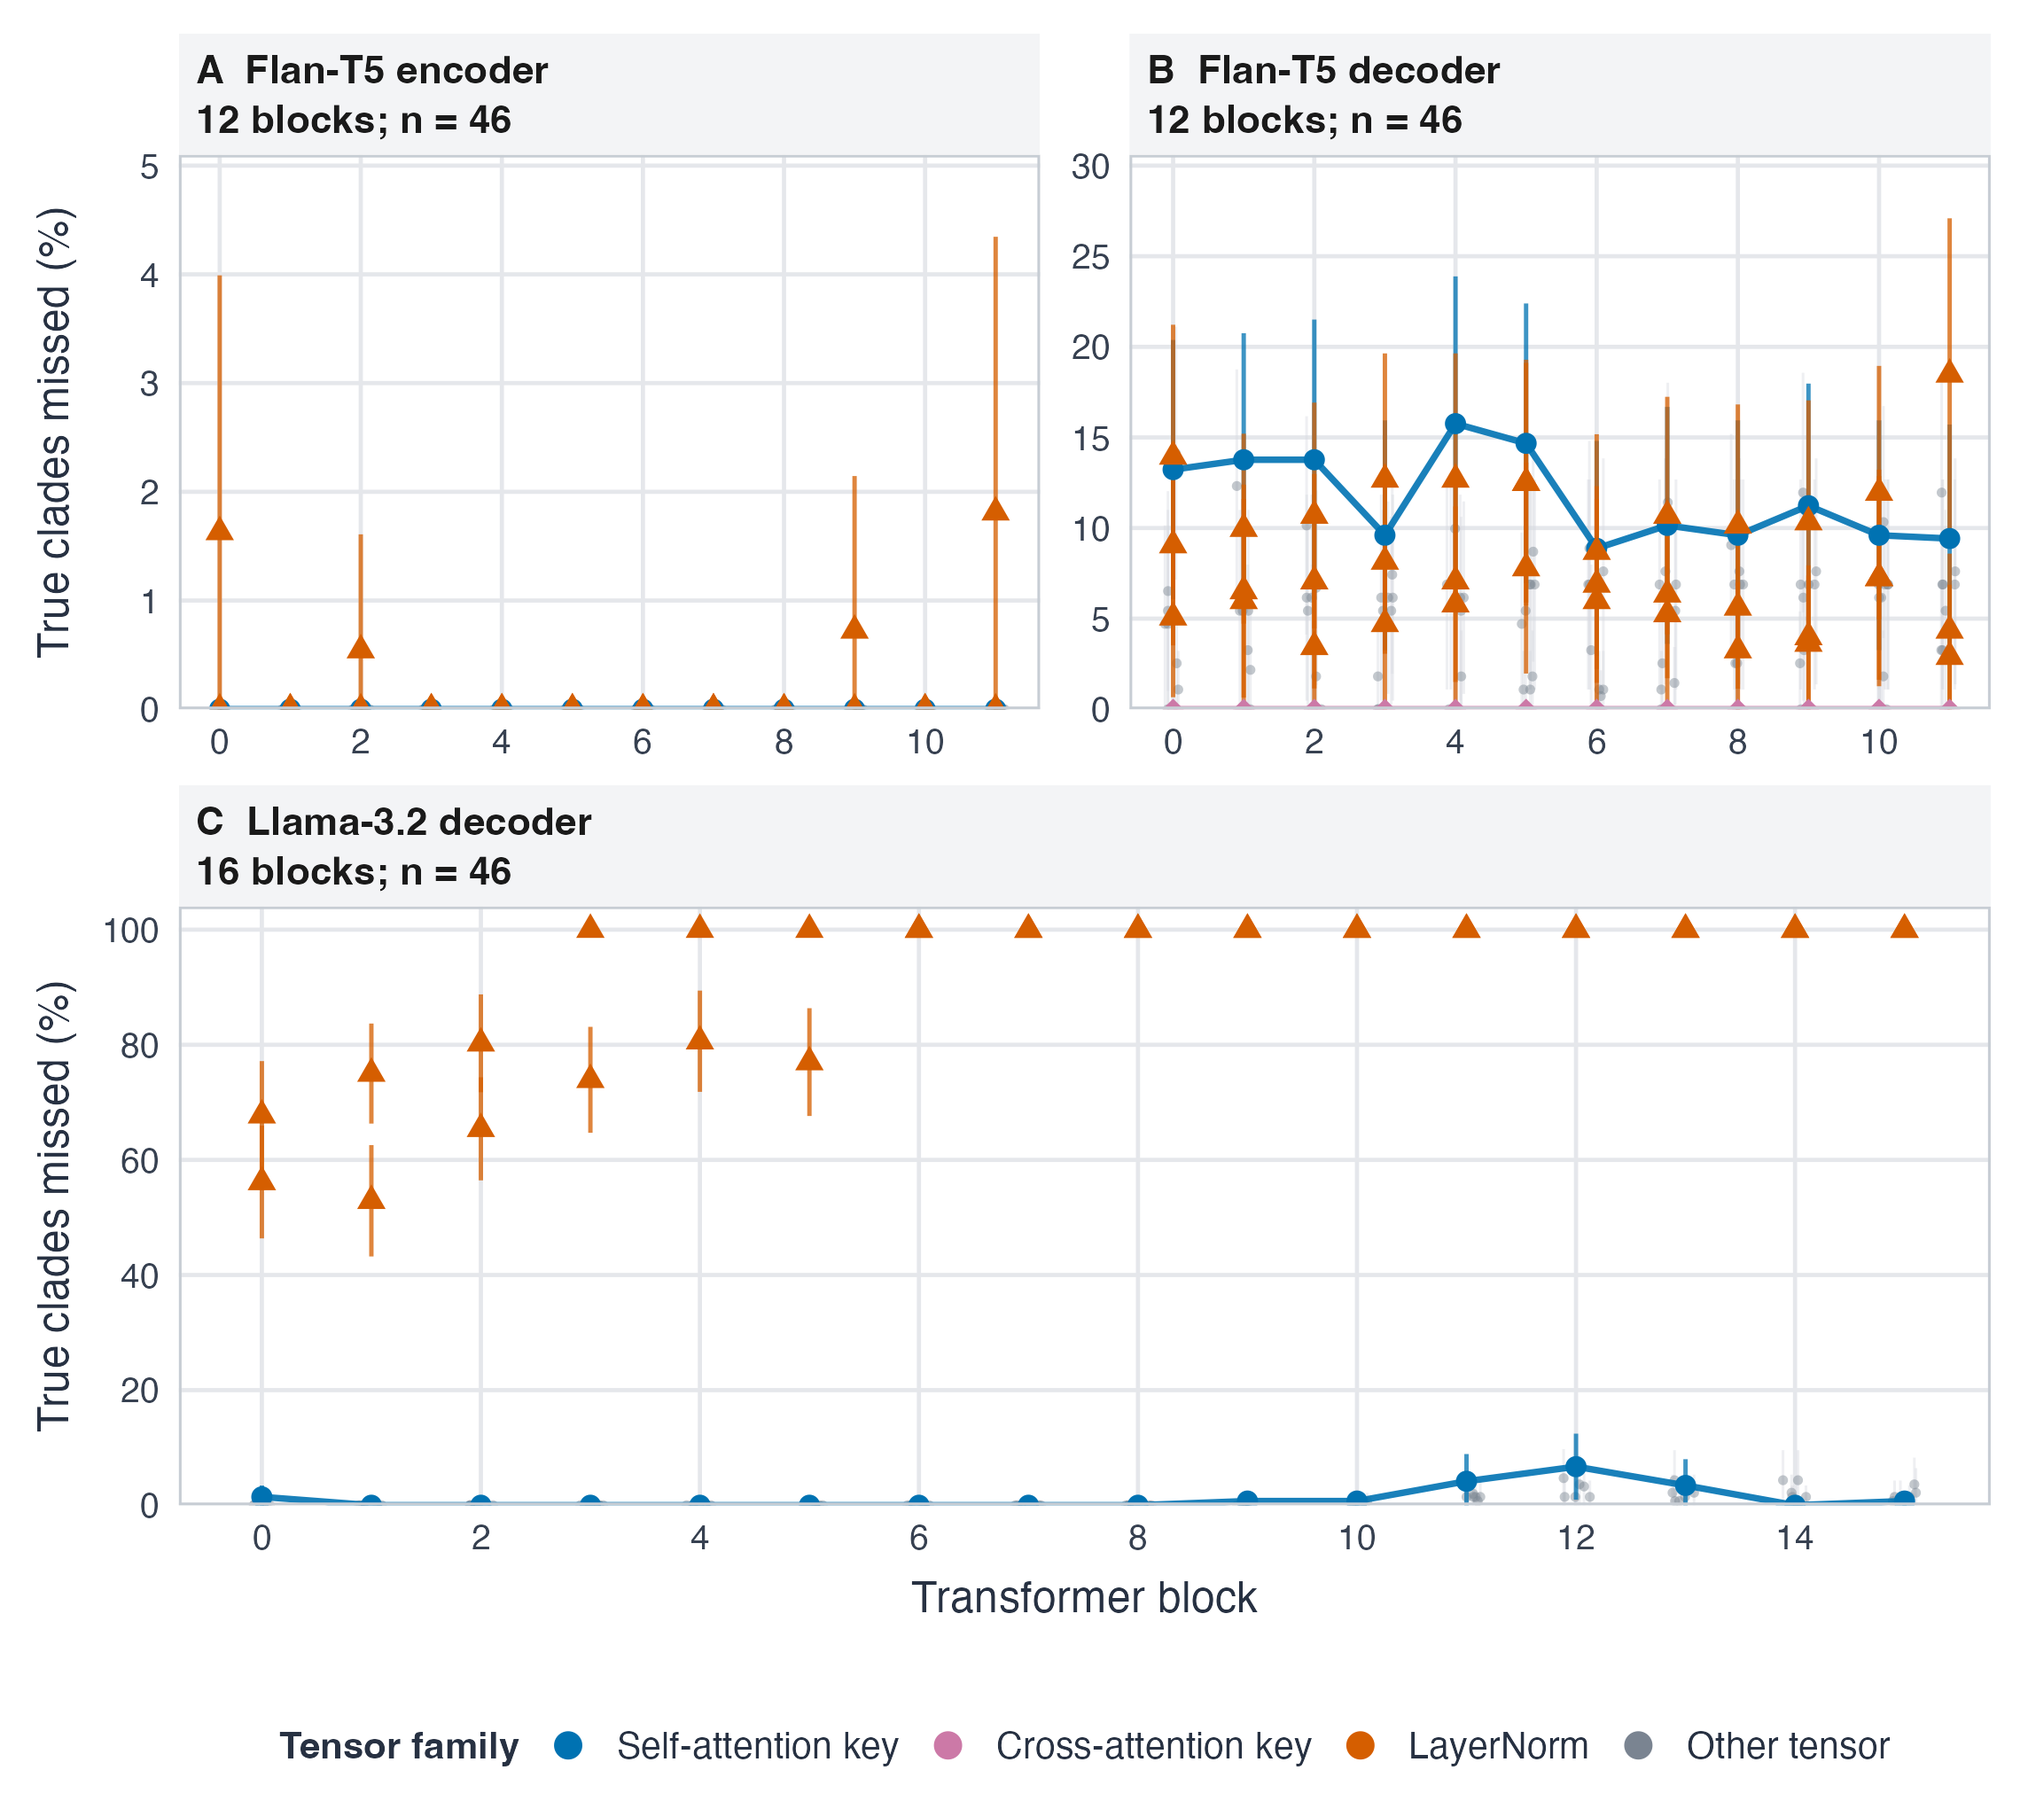
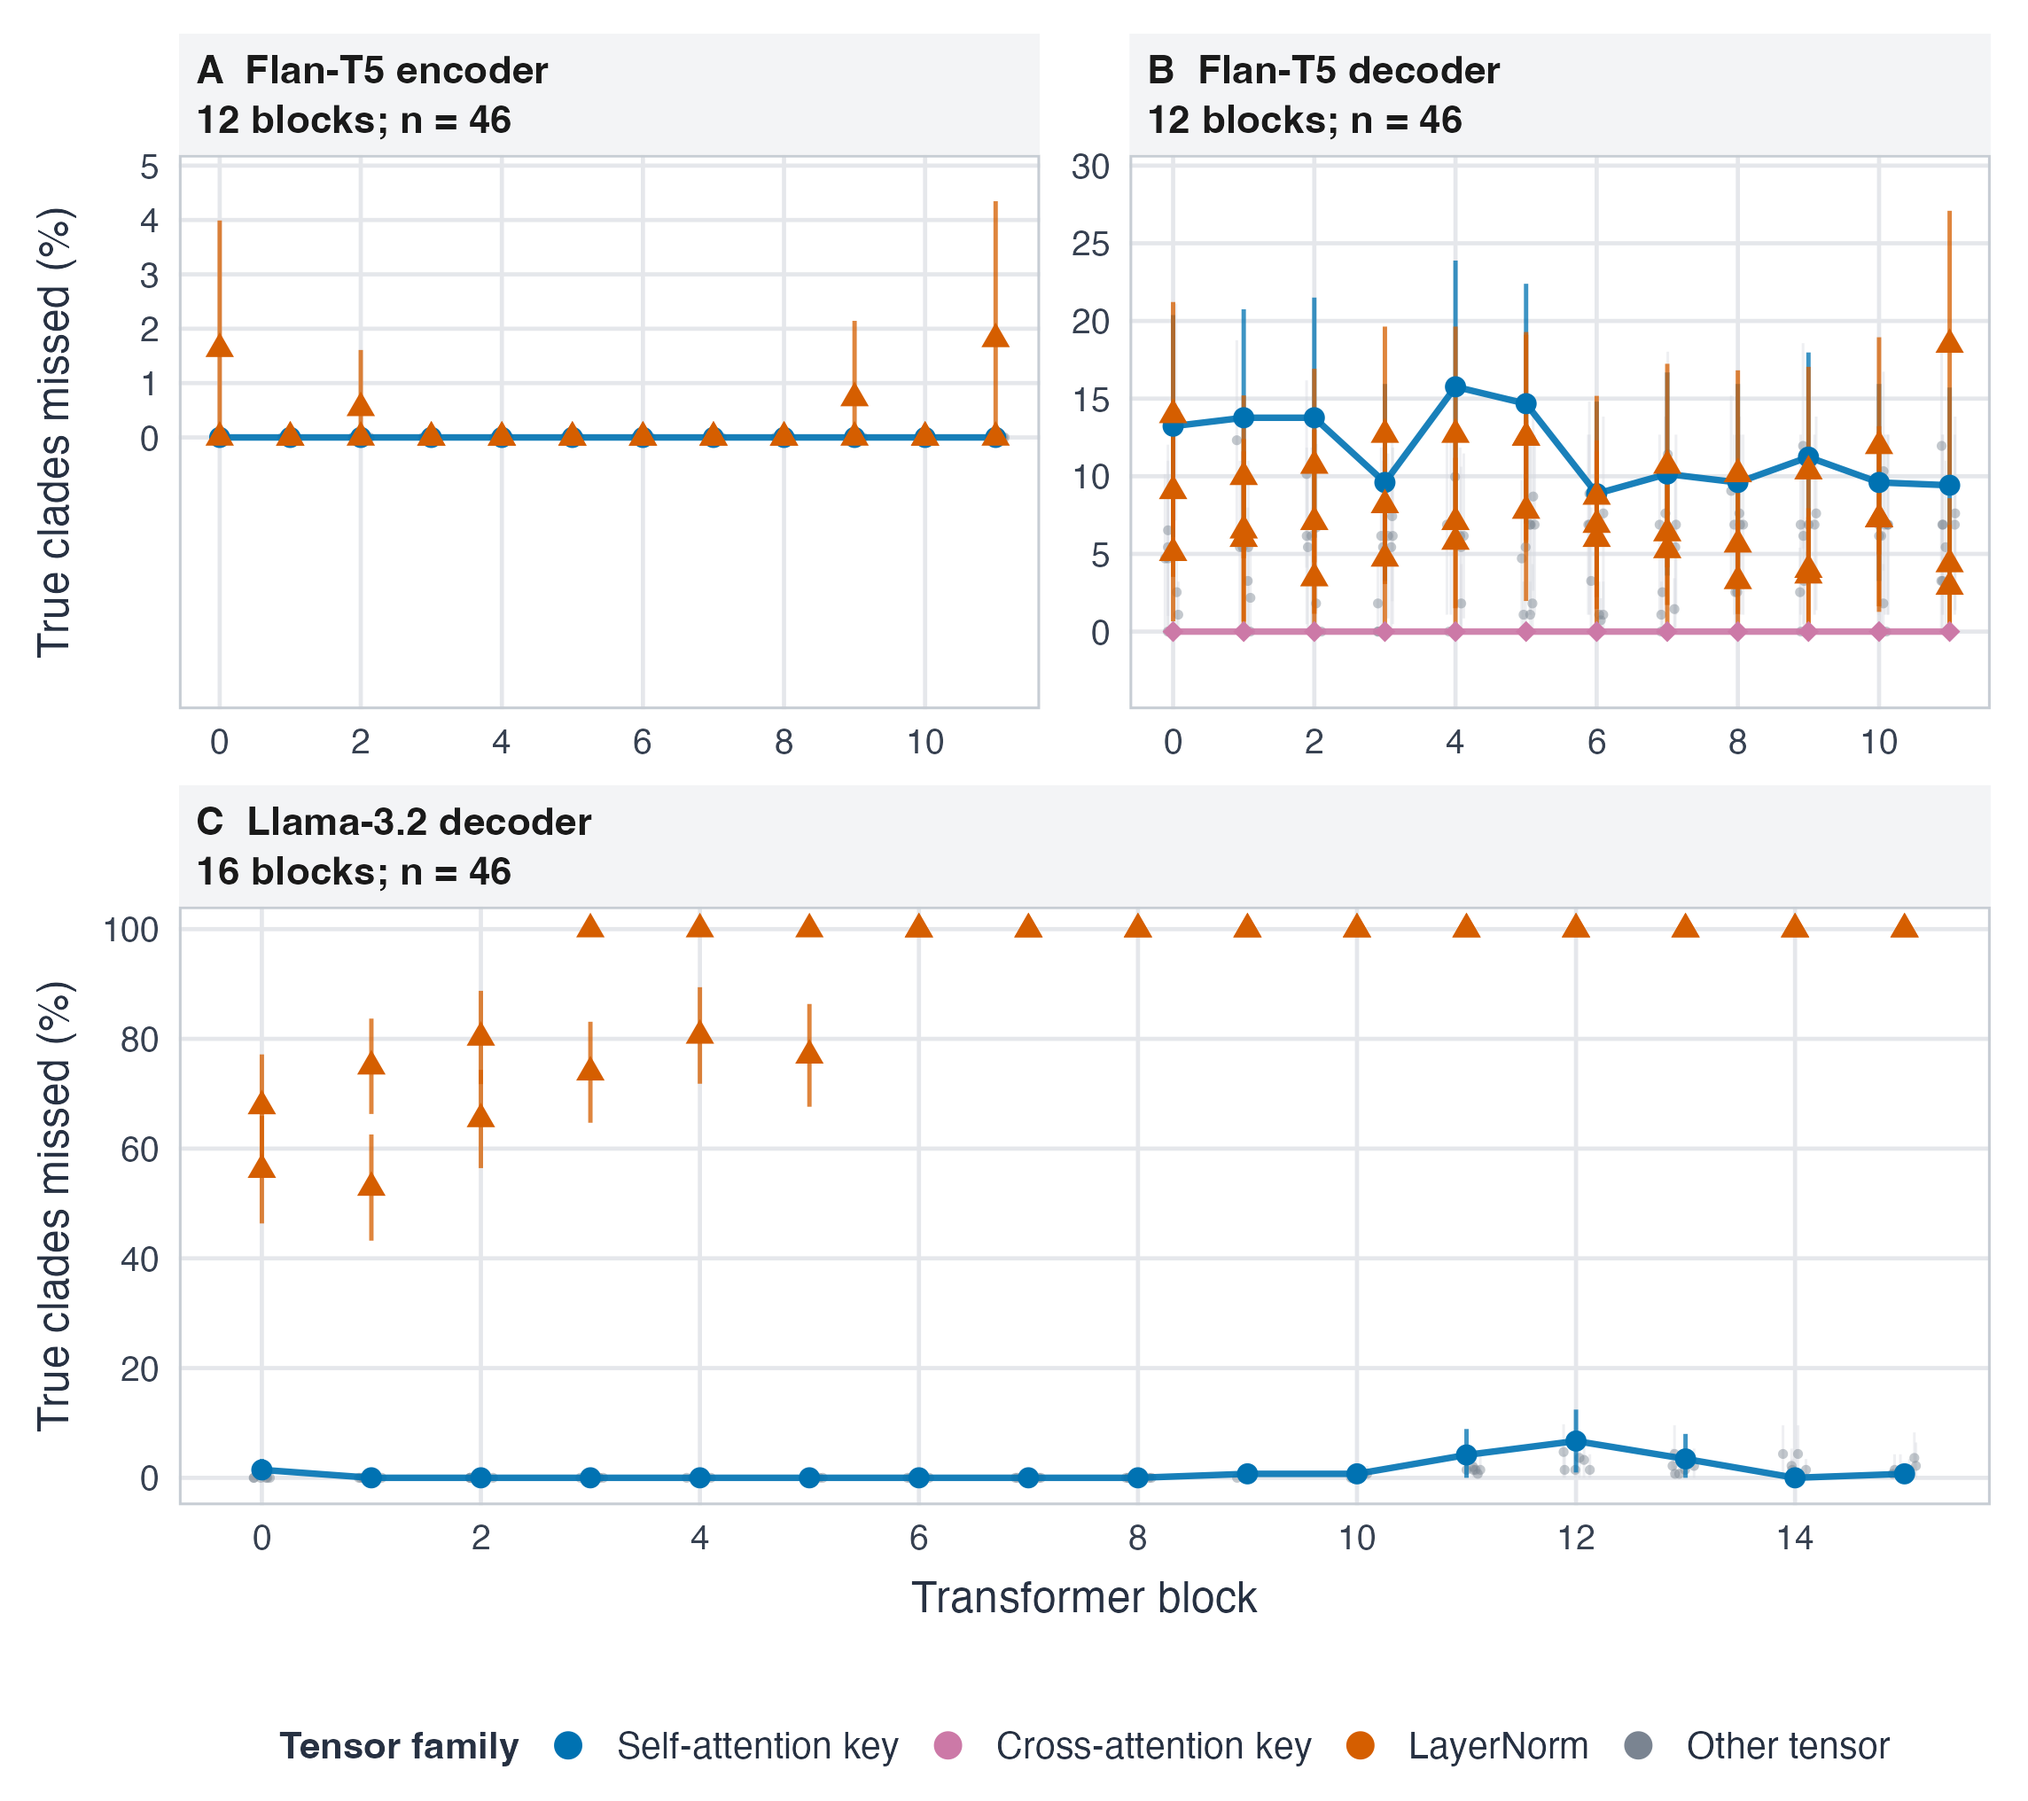
Extend Figure 4 y-axes below zero

diff --git a/iclr_draft_v5.tex b/iclr_draft_v5.tex
@@ -600,7 +600,7 @@ prominent local maxima in both architectures.
     the Llama profile is more key-concentrated (1.1\% vs.\ 24.0\%). Color and shape highlight
     self-attention keys, cross-attention keys, and \textsc{LayerNorm}. The two Flan block-0
     relative-attention-bias tensors (32.8\% encoder; 55.4\% decoder) are omitted from the plot;
-    panel y-axes are 0--5\%, 0--30\%, and 0--100\%, respectively.}
+    panel plotting windows extend from $-5\%$ to 5\%, 30\%, and 102\%, respectively.}
   \label{fig:layertrace_grid}
 \end{figure}
 
